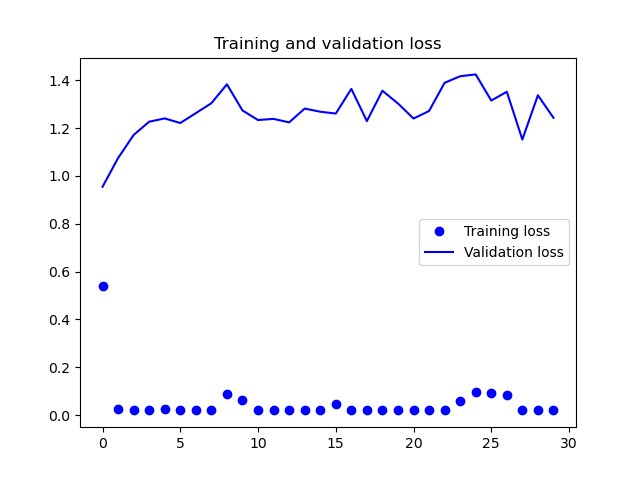
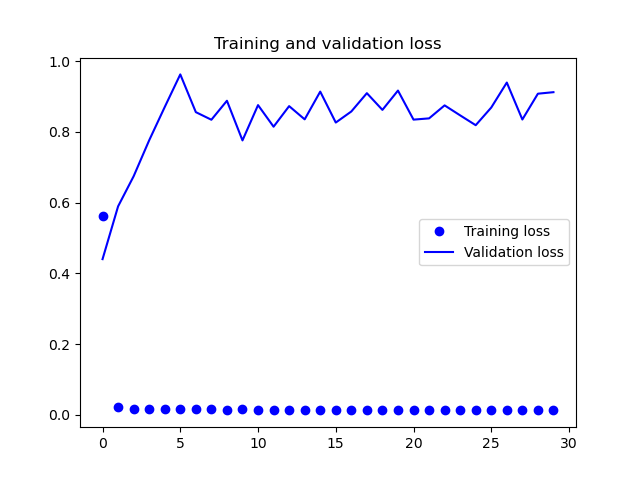
run co2-models

diff --git a/models/autoencoder.py b/models/autoencoder.py
@@ -37,11 +37,10 @@ def main():
     batch_size = 16 # 64
     epochs = 30 # 200
     repeats = 10
-    lookback_horizon = 48
-    prediction_horizon = 1
+    historical_co2 = False
     embedding = True
     feature_set = 'Light+CO2'
-    name = 'autoencoder_embedding'
+    name = 'autoencoder'
 
     scores_train = []
     scores_test_1 = []
@@ -54,7 +53,7 @@ def main():
         print('Run ' + str(run + 1))
         set_random_seed(run)
         acc_train, acc_test_1, acc_test_2, acc_test_combined, autoencoder_train, classifier_train, encoded_representation, y_test_combined = run_model(
-            dataset, lookback_horizon, prediction_horizon, batch_size, epochs, embedding, feature_set, name)
+            dataset, batch_size, epochs, embedding, historical_co2, feature_set, name)
         scores_train.append(acc_train)
         scores_test_1.append(acc_test_1)
         scores_test_2.append(acc_test_2)
@@ -70,10 +69,10 @@ def main():
     loss_plot(autoencoders_train[max_value_index], name)
     acc_plot(classifiers_train[max_value_index], name)
 
-    summarize_results(scores_train, scores_test_1, scores_test_2, scores_test_combined, name, dataset, batch_size, epochs, repeats, embedding, feature_set)
+    summarize_results(scores_train, scores_test_1, scores_test_2, scores_test_combined, name, dataset, batch_size, epochs, repeats, embedding, feature_set, historical_co2)
 
-def run_model(dataset, lookback_horizon, prediction_horizon, batch_size, epochs, embedding, feature_set, name):
-    X_train, X_test_1, X_test_2, X_test_combined, y_train, y_test_1, y_test_2, y_test_combined = load_dataset(dataset=dataset, feature_set=feature_set, normalize=True, embedding=embedding)
+def run_model(dataset, batch_size, epochs, embedding, feature_set, historical_co2, name):
+    X_train, X_test_1, X_test_2, X_test_combined, y_train, y_test_1, y_test_2, y_test_combined = load_dataset(dataset=dataset, feature_set=feature_set, normalize=True, embedding=embedding, historical_co2=historical_co2)
 
     y_shape = y_train.shape[1:]
 
@@ -138,7 +137,7 @@ def run_model(dataset, lookback_horizon, prediction_horizon, batch_size, epochs,
 
 def build_autoencoder(embedding, X_train, target_shape):
     hidden_size = 128
-    code_size = 16
+    code_size = 2
 
     if embedding:
         input_shape = pd.concat(X_train, axis=1).shape
@@ -150,16 +149,16 @@ def build_autoencoder(embedding, X_train, target_shape):
 
     def encoder(input_layer):
         encoded = Dense(hidden_size, activation='relu', activity_regularizer = l1(10e-5), name='encoder_1')(input_layer)
-        encoded = Dense(hidden_size / 2, activation='relu', activity_regularizer = l1(10e-5), name='encoder_2')(encoded)
-        encoded = Dense(hidden_size / 4, activation='relu', activity_regularizer = l1(10e-5), name='encoder_3')(encoded)
+        encoded = Dense(hidden_size / 4, activation='relu', activity_regularizer = l1(10e-5), name='encoder_2')(encoded)
+        encoded = Dense(hidden_size / 8, activation='relu', activity_regularizer = l1(10e-5), name='encoder_3')(encoded)
         encoded = Dense(code_size, activation='relu', activity_regularizer = l1(10e-5), name='encoder_4')(encoded)
         return encoded
 
     encoded = encoder(x)
 
     def decoder(encoded):
-        decoded = Dense(hidden_size / 4, activation='relu')(encoded)
-        decoded = Dense(hidden_size / 2, activation='relu')(decoded)
+        decoded = Dense(hidden_size / 8, activation='relu')(encoded)
+        decoded = Dense(hidden_size / 4, activation='relu')(decoded)
         decoded = Dense(hidden_size, activation='relu')(decoded)
         decoded = Flatten()(decoded)
         decoded = Dense(input_shape[-1], activation='relu')(decoded)
@@ -168,7 +167,7 @@ def build_autoencoder(embedding, X_train, target_shape):
     def representation(encoded):
         representation = Flatten(name='classifier_1')(encoded)
         representation = Dense(hidden_size, activation='relu', name='classifier_2')(representation)
-        representation = Dense(2, activation='relu', name='classifier_3')(representation) # For plot_autoencoder
+        #representation = Dense(2, activation='relu', name='classifier_3')(representation) # For plot_autoencoder
         return representation
 
     representation = representation(encoded)
@@ -178,7 +177,7 @@ def build_autoencoder(embedding, X_train, target_shape):
         return classifier
 
     autoencoder_for_training = Model(inputs=input_layer, outputs=decoder(encoded))
-    autoencoder_for_representation = Model(inputs=input_layer, outputs=representation)
+    autoencoder_for_representation = Model(inputs=input_layer, outputs=encoded)
     autoencoder_for_classifier = Model(inputs=input_layer, outputs=classifier(representation)) # This one has a seperate output to be used for classification
     
     autoencoder_for_training.compile(loss='mse', optimizer=Adam(), metrics='mse')

diff --git a/utils.py b/utils.py
@@ -71,16 +71,16 @@ def load_dataset(
 
         if shaped:
             X_train, y_train = dm.processing.shape.get_windows(
-                lookback_horizon, X_train.to_numpy(), prediction_horizon, y_train.to_numpy()
+                LOOKBACK_HORIZON, X_train.to_numpy(), PREDICTION_HORIZON, y_train.to_numpy()
             )
             X_test_1, y_test_1 = dm.processing.shape.get_windows(
-                lookback_horizon, X_test_1.to_numpy(), prediction_horizon, y_test_1.to_numpy(),
+                LOOKBACK_HORIZON, X_test_1.to_numpy(), PREDICTION_HORIZON, y_test_1.to_numpy(),
             )
             X_test_2, y_test_2 = dm.processing.shape.get_windows(
-                lookback_horizon, X_test_2.to_numpy(), prediction_horizon, y_test_2.to_numpy(),
+                LOOKBACK_HORIZON, X_test_2.to_numpy(), PREDICTION_HORIZON, y_test_2.to_numpy(),
             )
             X_test_combined, y_test_combined = dm.processing.shape.get_windows(
-                lookback_horizon, X_test_combined.to_numpy(), prediction_horizon, y_test_combined.to_numpy(),
+                LOOKBACK_HORIZON, X_test_combined.to_numpy(), PREDICTION_HORIZON, y_test_combined.to_numpy(),
             )
         
         return X_train, X_test_1, X_test_2, X_test_combined, y_train, y_test_1, y_test_2, y_test_combined
@@ -228,7 +228,8 @@ def summarize_results(
     epochs='?',
     repeats='?',
     embedding='?',
-    feature_set='?'
+    feature_set='?',
+    historical_co2='?'
     ):
     print(scores_train)
     print(scores_test_1)
@@ -238,6 +239,7 @@ def summarize_results(
         'repeats': repeats,
         'embedding': embedding,
         'feature set': feature_set,
+        'historical co2': historical_co2,
         'accuracy_train_mean': np.mean(scores_train),
         'accuracy_train_std': np.std(scores_train),
         'accuracy_test_1_mean': np.mean(scores_test_1),
@@ -250,7 +252,7 @@ def summarize_results(
     if embedding != '?' and embedding != False:
         suffix += '_embedding'
     if dataset == '?' or dataset == 'uci':
-        result.update({
+        result.update({ # Add evaluation for second and combined test set
             'accuracy_test_2_mean': np.mean(scores_test_2),
             'accuracy_test_2_std': np.std(scores_test_2),
             'accuracy_test_combined_mean': np.mean(scores_test_combined),
@@ -283,6 +285,9 @@ def get_feature_list(set='full'):
         ],
         'Light+CO2': [
             'Light',
+            'CO2'
+        ],
+        'CO2': [
             'CO2'
         ]
     }

diff --git a/models/test_models.py b/models/test_models.py
@@ -27,14 +27,14 @@ from datamodels import datamodels as dm
 
 
 def main():
-    dataset = 'Denmark'
-    batch_size = 32 # 32 for uci
+    dataset = 'uci'
+    batch_size = 32
     epochs = 50
     repeats = 10
-    historical_co2 = False
+    historical_co2 = True
     embedding = False # Wont work here
-    feature_set = 'full'
-    model_name = 'CNN'
+    feature_set = 'CO2'
+    model_name = 'SRNN'
 
     models = {
         'CNN': (dm.ConvolutionNetwork, layers_CNN),
@@ -56,13 +56,13 @@ def main():
     for run in range(repeats):
         print('Run ' + str(run + 1))
         model = build_model(X_train.shape[0], X_train.shape[-1], 1, batch_size, epochs, models[model_name], model_name)
-        acc_train, acc_test_1, acc_test_2, acc_test_combined = run_model(X_train, X_test_1, X_test_2, X_test_combined, y_train, y_test_1, y_test_2, y_test_combined, model, lookback_horizon, prediction_horizon)
+        acc_train, acc_test_1, acc_test_2, acc_test_combined = run_model(X_train, X_test_1, X_test_2, X_test_combined, y_train, y_test_1, y_test_2, y_test_combined, model)
         scores_train.append(acc_train)
         scores_test_1.append(acc_test_1)
         scores_test_2.append(acc_test_2)
         scores_test_combined.append(acc_test_combined)
     
-    summarize_results(scores_train, scores_test_1, scores_test_2, scores_test_combined, model_name, dataset, batch_size, epochs, repeats, embedding, feature_set)
+    summarize_results(scores_train, scores_test_1, scores_test_2, scores_test_combined, model_name, dataset, batch_size, epochs, repeats, embedding, feature_set, historical_co2)
 
 def build_model(n_timesteps, n_features, target_shape, batch_size, epochs, model_type, name):
     
@@ -91,7 +91,7 @@ def build_model(n_timesteps, n_features, target_shape, batch_size, epochs, model
 
     return model
 
-def run_model(X_train, X_test_1, X_test_2, X_test_combined, y_train, y_test_1, y_test_2, y_test_combined, model, lookback_horizon, prediction_horizon):
+def run_model(X_train, X_test_1, X_test_2, X_test_combined, y_train, y_test_1, y_test_2, y_test_combined, model):
     model.train(X_train, y_train)
 
     y_pred_train = model.predict(X_train)

diff --git a/README.md b/README.md
@@ -4,3 +4,32 @@ Adding Embedded layers to best model to see if it predicts better with or withou
 Visualize plot_embedding for encoders.
 Visualize Correlation matrix for the features.
 Plot Temperature, CO2, Light distributions by hour.
+
+# Parameters
+
+|      Parameter | Description                                                                                                                                                                                                                                                                                                  |
+|---------------:|--------------------------------------------------------------------------------------------------------------------------------------------------------------------------------------------------------------------------------------------------------------------------------------------------------------|
+|        dataset |  ['uci', 'Australia', 'Denmark', 'Italy']
+Which dataset to load in the 'load_dataset()'-method                                                                                                                                                                                                               |
+|    feature_set | ['full', 'Light+CO2', 'CO2']
+Which features to load from the dataset. Setting this to 'full' will load the features 'Temperature', 'Humidity', 'Light', 'CO2' and 'HumidityRatio', if they exist in the selected dataset.                                                                                    |
+|     batch_size |                                                                                                                                                                                                                                                                                                              |
+|         epochs |                                                                                                                                                                                                                                                                                                              |
+|        repeats | How often to execute the model. Should be set to 10. For the result, mean value and std of all runs are calculated.                                                                                                                                                                                          |
+| historical_co2 | [True, False]
+Specifies, if historical CO2-values should be added to the feature list. If True, a column  with CO2-values from one minute before each timestep will be added                                                                                                                                 |
+|      embedding | Specifies, if embedding layers should be added for the categorical variables. Used categorical variables are the day of the week and, if the dataset is 'Australia', 'Denmark' or 'Italy', the Room ID. This parameter can be used from autoencoder.py and embedding.py. The last one also generates a plot. |
+|         shaped | [True, False] Add a lookback and a prediction horizon to each timestep. By default, lookback_horizon is set to 48 and prediction_horizon to 1, which can be changed in utils.py. If true, the new shape of the data is (n_timesteps, 48, 1, n_features).                                                     |
+
+# Models
+- CO2+histCO2
+Used with models CNN and SRNN
+
+| dataset | feature_set | batch_size | epochs | repeats | historical_co2 | embedding | shaped |
+|---------|-------------|------------|--------|---------|----------------|-----------|--------|
+| uci     | CO2         | 32         | 50     | 10      | True           | False     | True   |
+- Autoencoder embedding with Light+CO2
+
+| dataset | feature_set | batch_size | epochs | repeats | historical_co2 | embedding | shaped |
+|:-------:|-------------|------------|--------|---------|----------------|-----------|--------|
+| uci     | CO2         | 16         | 50     | 10      | True           | False     | True   |
